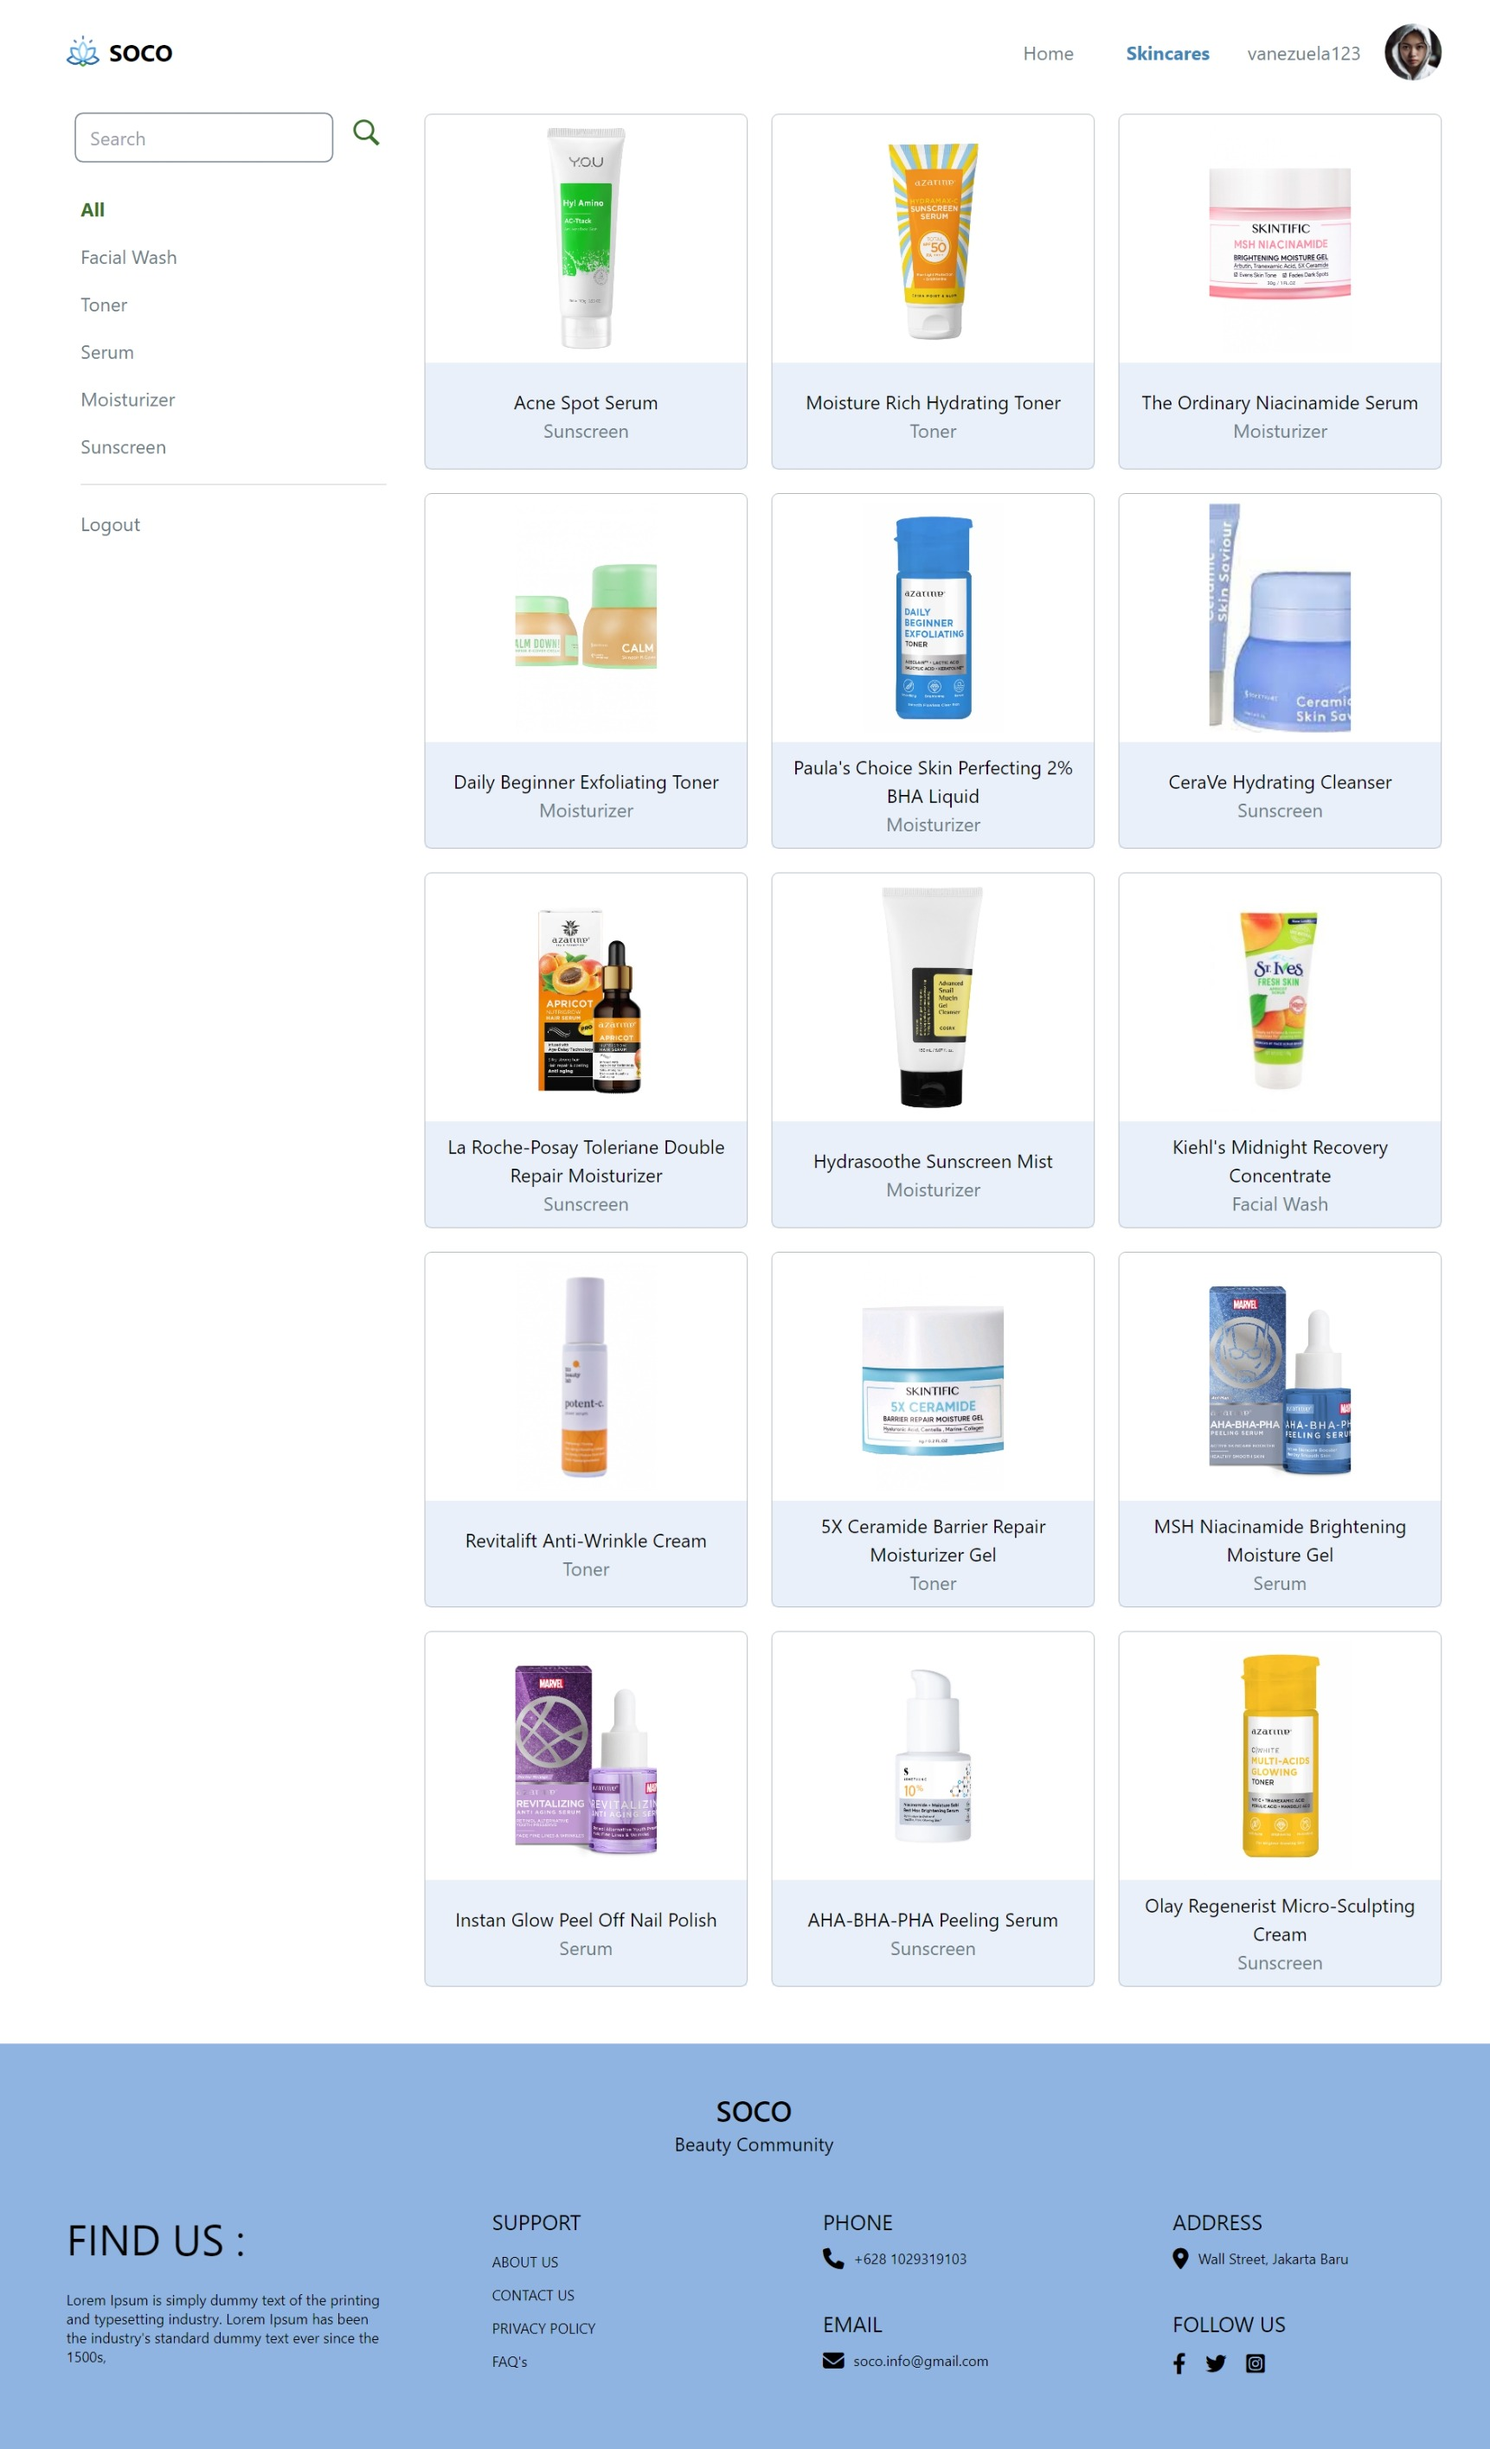
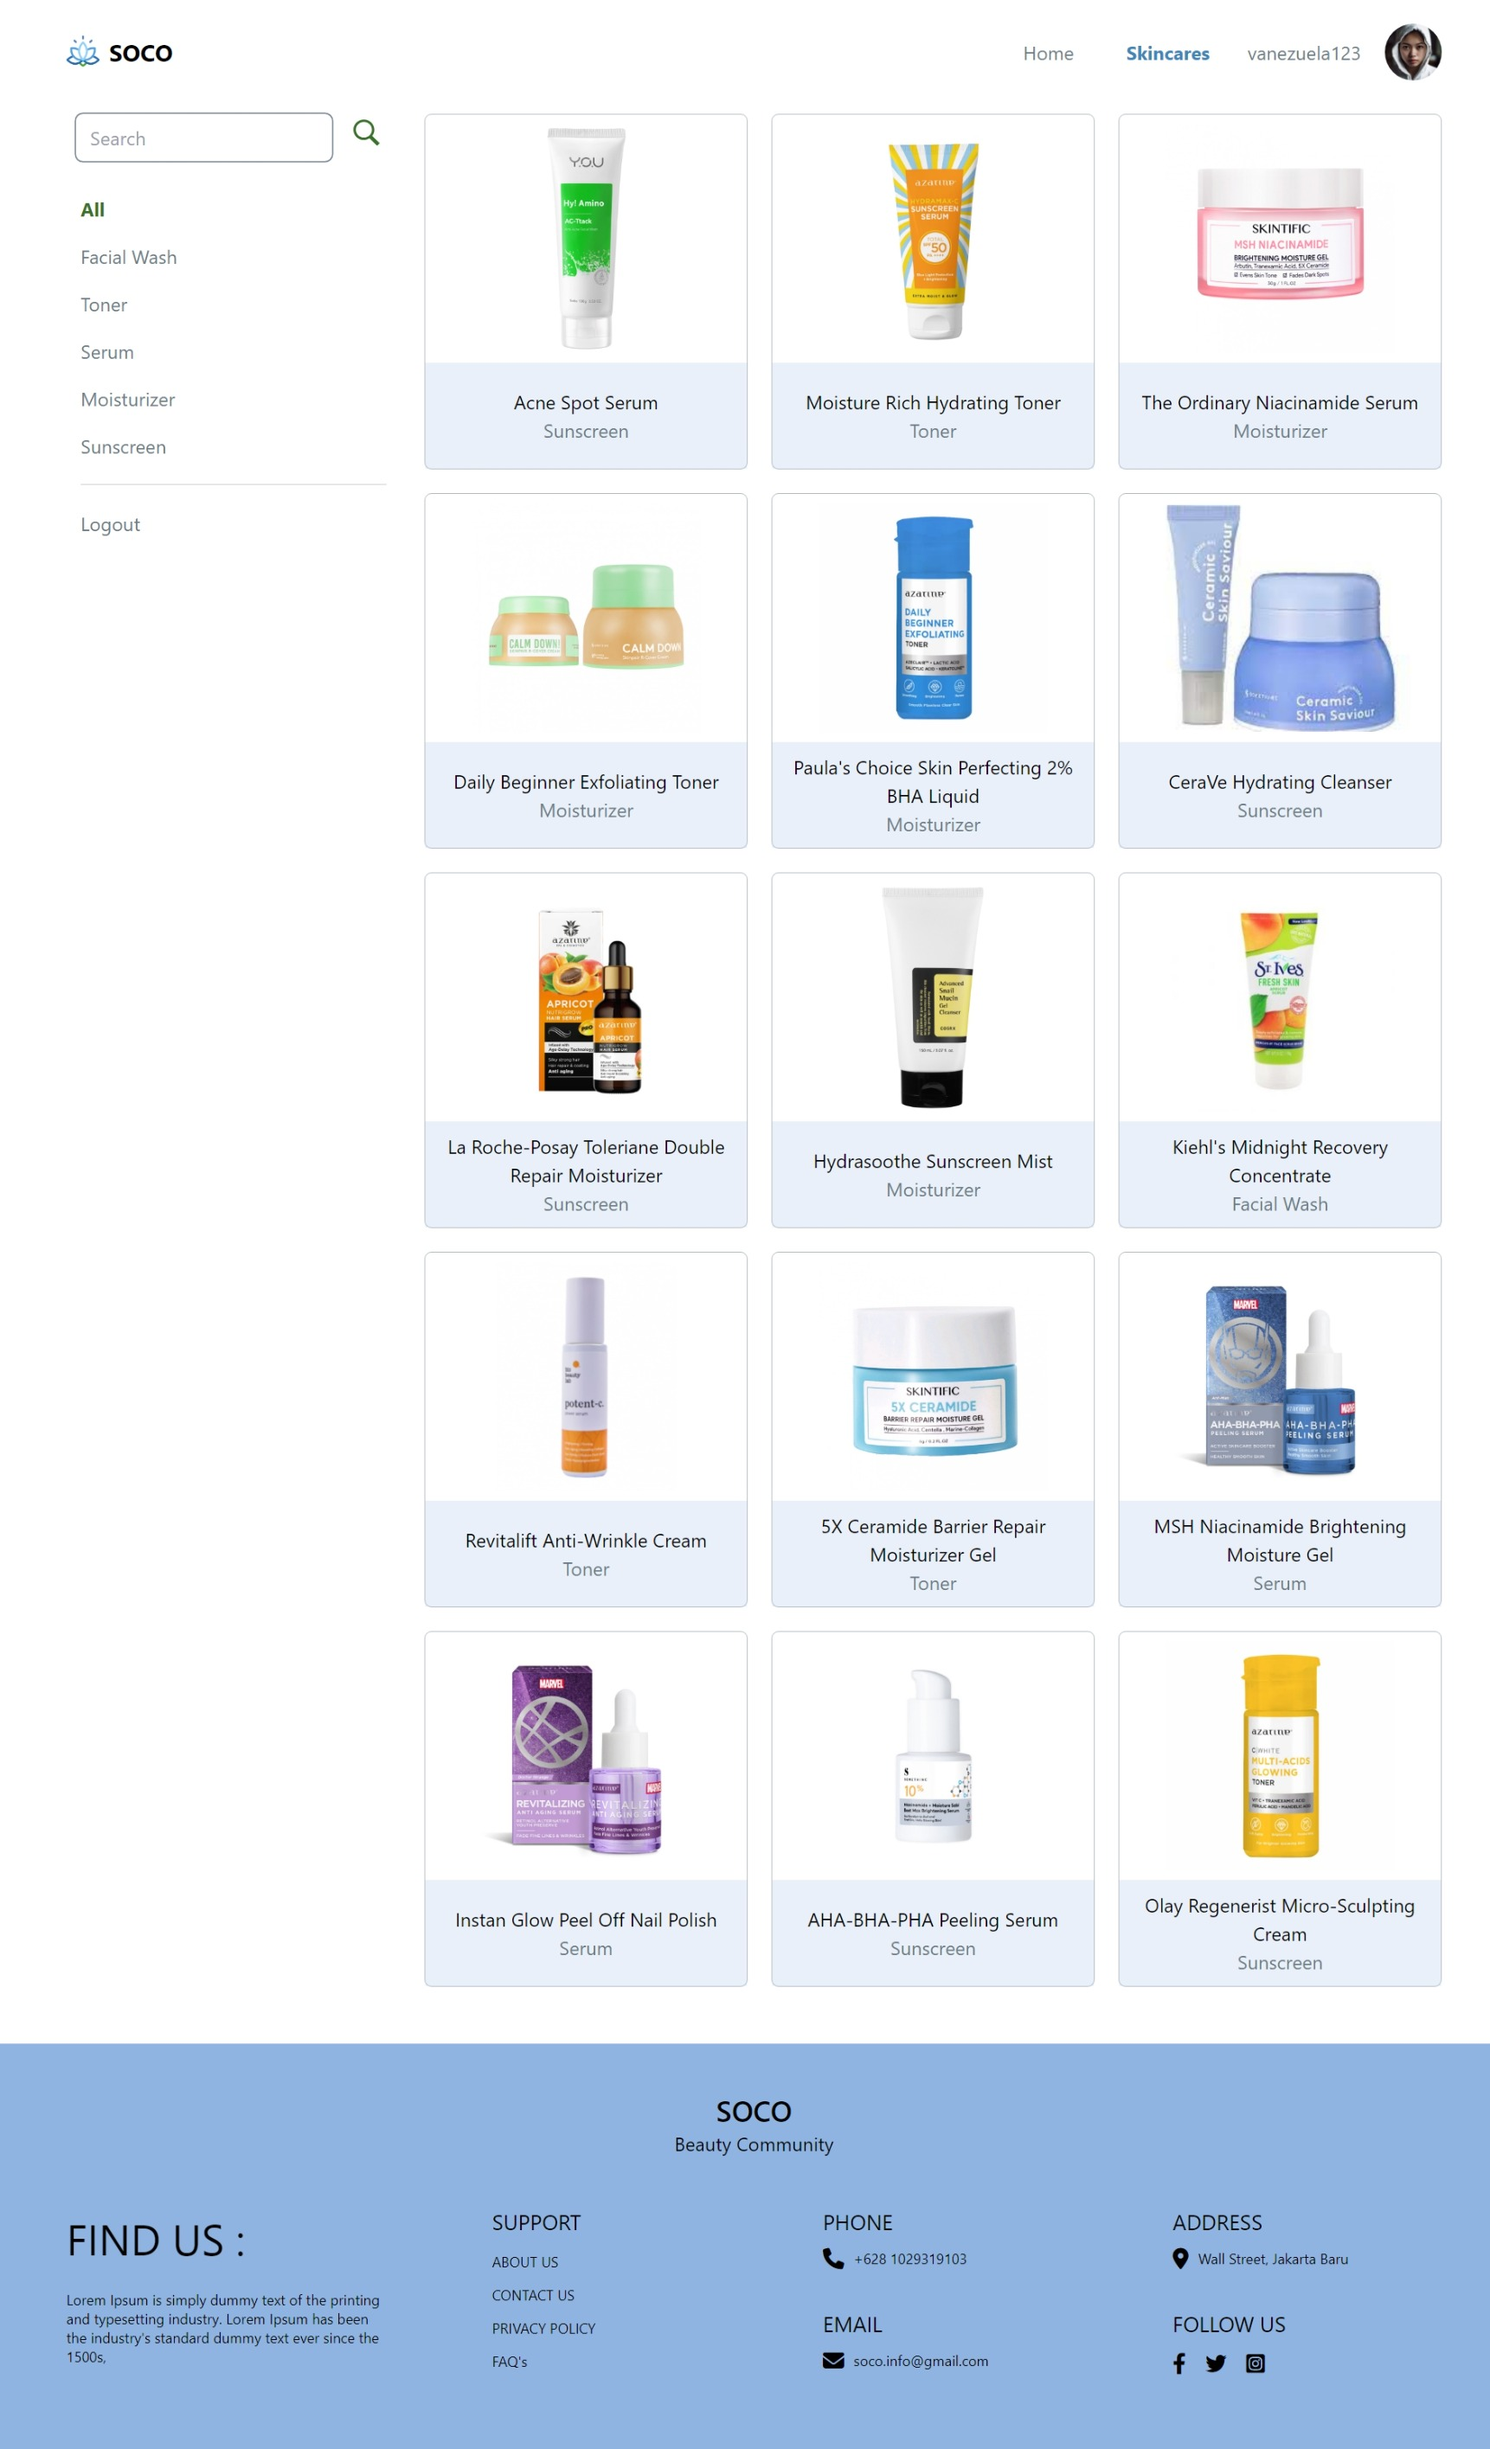
update readme

diff --git a/resources/views/user/skincares.blade.php b/resources/views/user/skincares.blade.php
@@ -22,8 +22,8 @@
                     <a href="{{ route('user.skincares.details', $produk['id']) }}"
                         class="h-[300px] border border-light-slate-grey border-opacity-50 rounded-md hover:shadow-md shadow-light-slate-grey flex flex-col items-center">
 
-                        <div class="w-[50%] h-[70%] p-2">
-                            <div class="bg-center bg-cover h-full"
+                        <div class="w-full h-[70%] p-2">
+                            <div class="bg-center bg-contain bg-no-repeat h-full"
                                 style="background-image: url('{{ asset('assets/skincares/' . $produk['gambar']) }}')">
 
                             </div>

diff --git a/README.md b/README.md
@@ -1,8 +1,9 @@
 
-<center>
-<img src="public/assets/images/soco.png" width="90">
-<h1> SOCO <br> <p>Beauty Community</p></h1>
-</center>
+<h1 align="center">
+<img src="public/assets/images/soco.png" width="90"> <br>
+ SOCO <br> 
+ Beauty Community
+</h1>
 
 # Daftar Isi
 - <a href="#tampilan-website"> Deskripsi </a>
